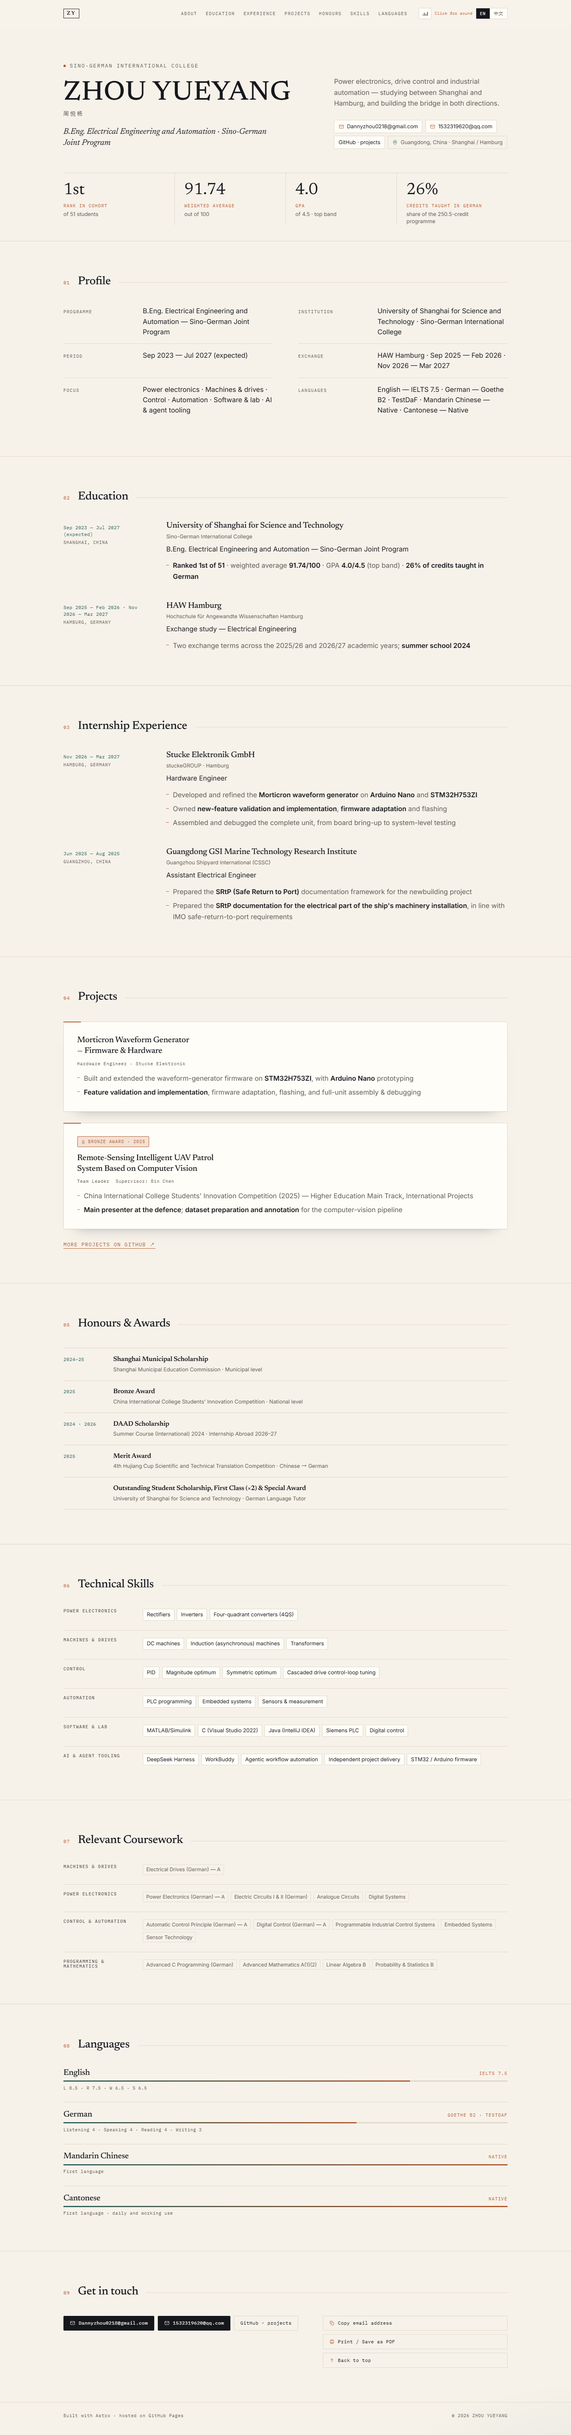
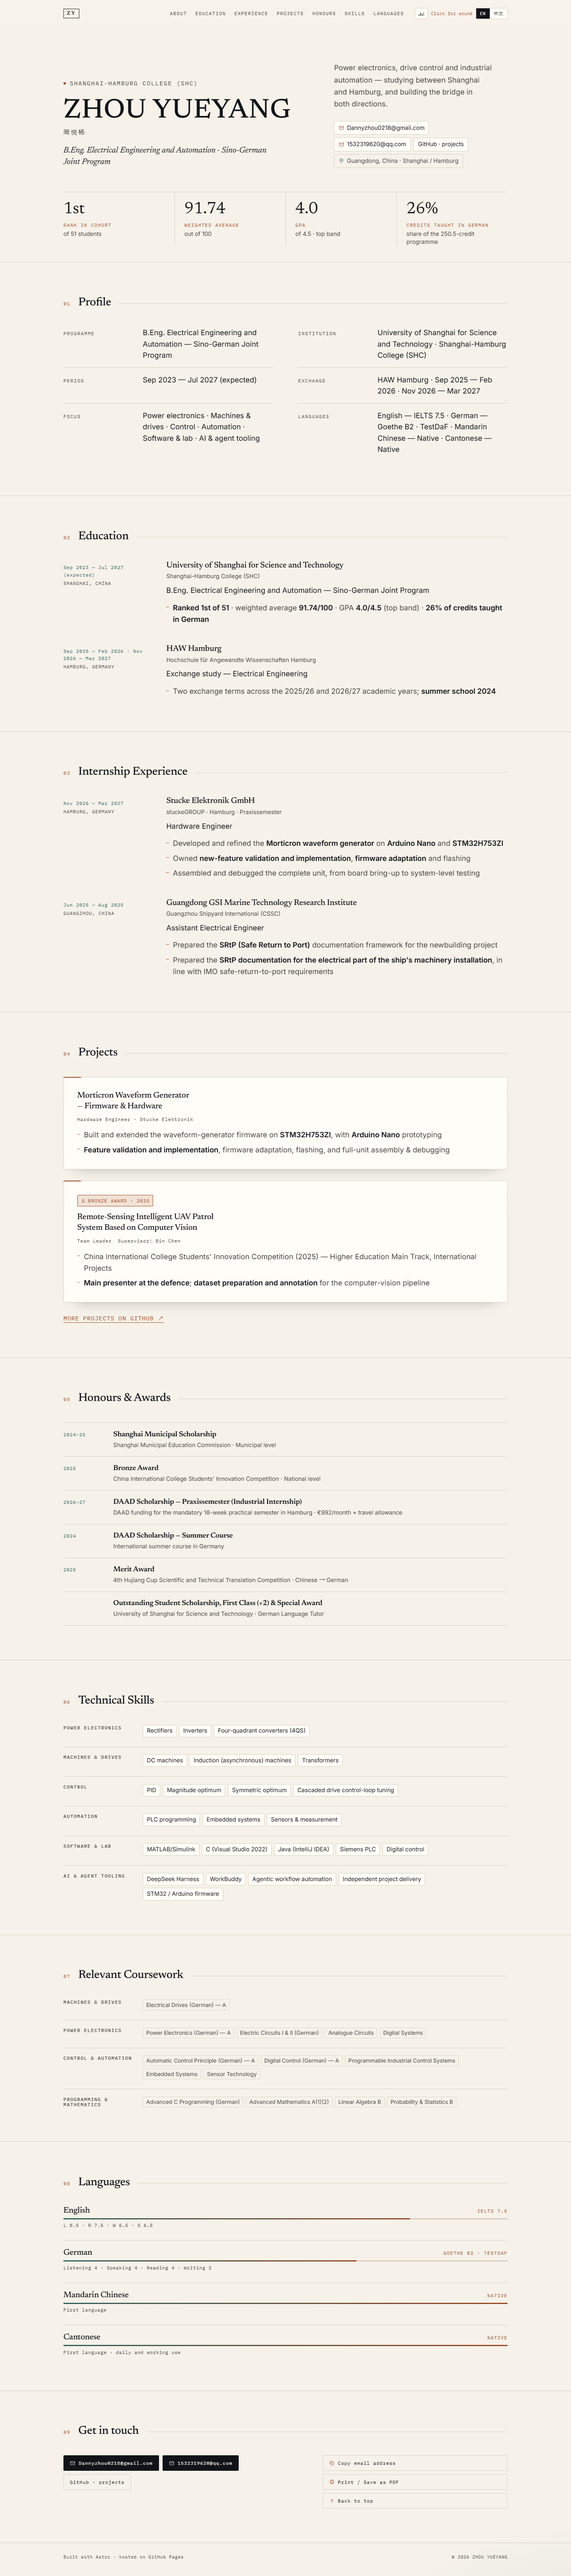
style: larger and darker body text for readability; awards: split DAAD Praxissemester and summer course; SHC naming

diff --git a/src/styles/global.css b/src/styles/global.css
@@ -7,10 +7,10 @@
   /* palette */
   --paper: #f6f2ea;
   --surface: #fffdf8;
-  --ink: #15171c;
-  --muted: #5b5852;
-  --hair: #ded6c6;
-  --copper: #b4552a;
+  --ink: #101318;
+  --muted: #3f3c37;
+  --hair: #d8cfbd;
+  --copper: #9c451f;
   --verd: #2c5f5a;
   --copper-wash: #f1e2d5;
   --verd-wash: #dde8e3;
@@ -22,8 +22,8 @@
     'PingFang SC', 'Hiragino Sans GB', 'Microsoft YaHei', 'Noto Sans SC', monospace;
   --font-cjk: 'PingFang SC', 'Hiragino Sans GB', 'Microsoft YaHei', 'Noto Sans SC', sans-serif;
 
-  --step--1: clamp(0.78rem, 0.76rem + 0.08vw, 0.84rem);
-  --step-0: clamp(0.97rem, 0.94rem + 0.16vw, 1.06rem);
+  --step--1: clamp(0.84rem, 0.82rem + 0.1vw, 0.92rem);
+  --step-0: clamp(1.02rem, 0.99rem + 0.22vw, 1.15rem);
   --step-1: clamp(1.08rem, 1.01rem + 0.34vw, 1.3rem);
   --step-2: clamp(1.36rem, 1.18rem + 0.78vw, 1.82rem);
   --step-3: clamp(1.7rem, 1.4rem + 1.35vw, 2.6rem);
@@ -68,7 +68,7 @@ body {
   background-repeat: no-repeat;
   font-family: var(--font-body);
   font-size: var(--step-0);
-  line-height: 1.62;
+  line-height: 1.65;
   font-feature-settings: 'kern' 1, 'liga' 1;
   -webkit-font-smoothing: antialiased;
   text-rendering: optimizeLegibility;
@@ -293,7 +293,7 @@ html[lang^='zh'] .hero-name[data-latin='true'] {
   display: block;
   padding-block: 0.4rem;
   font-family: var(--font-mono);
-  font-size: 0.71rem;
+  font-size: 0.74rem;
   letter-spacing: 0.12em;
   text-transform: uppercase;
   color: var(--muted);
@@ -416,7 +416,7 @@ html[lang^='zh'] .hero-name[data-latin='true'] {
 /* Only visible while the browser has blocked audible autoplay. */
 .music-hint {
   max-width: 9rem;
-  font-size: 0.62rem;
+  font-size: 0.68rem;
   letter-spacing: 0.04em;
   line-height: 1.3;
   color: var(--copper);
@@ -647,7 +647,7 @@ html[lang^='zh'] .stat-value {
   display: block;
   margin-top: 0.55rem;
   font-family: var(--font-mono);
-  font-size: 0.68rem;
+  font-size: 0.74rem;
   letter-spacing: 0.13em;
   text-transform: uppercase;
   color: var(--copper);
@@ -679,7 +679,7 @@ html[lang^='zh'] .stat-value {
 .sec-index {
   flex: none;
   font-family: var(--font-mono);
-  font-size: 0.74rem;
+  font-size: 0.78rem;
   letter-spacing: 0.1em;
   color: var(--copper);
 }
@@ -717,7 +717,7 @@ html[lang^='zh'] .stat-value {
 
 .fact-key {
   font-family: var(--font-mono);
-  font-size: 0.68rem;
+  font-size: 0.74rem;
   letter-spacing: 0.14em;
   text-transform: uppercase;
   color: var(--muted);
@@ -750,7 +750,7 @@ html[lang^='zh'] .stat-value {
 
 .entry-period {
   font-family: var(--font-mono);
-  font-size: 0.73rem;
+  font-size: 0.78rem;
   letter-spacing: 0.04em;
   line-height: 1.5;
   color: var(--verd);
@@ -758,7 +758,7 @@ html[lang^='zh'] .stat-value {
 
 .entry-place {
   font-family: var(--font-mono);
-  font-size: 0.71rem;
+  font-size: 0.76rem;
   letter-spacing: 0.06em;
   text-transform: uppercase;
   color: var(--muted);
@@ -855,7 +855,7 @@ html[lang^='zh'] .stat-value {
   border: 1px solid var(--copper);
   border-radius: 2px;
   font-family: var(--font-mono);
-  font-size: 0.67rem;
+  font-size: 0.72rem;
   letter-spacing: 0.11em;
   text-transform: uppercase;
   color: var(--copper);
@@ -880,7 +880,7 @@ html[lang^='zh'] .stat-value {
   gap: 0.25rem 1rem;
   margin-top: 0.55rem;
   font-family: var(--font-mono);
-  font-size: 0.71rem;
+  font-size: 0.76rem;
   letter-spacing: 0.05em;
   color: var(--muted);
 }
@@ -906,7 +906,7 @@ html[lang^='zh'] .stat-value {
 
 .award-year {
   font-family: var(--font-mono);
-  font-size: 0.73rem;
+  font-size: 0.78rem;
   letter-spacing: 0.04em;
   color: var(--verd);
   font-variant-numeric: tabular-nums;
@@ -950,7 +950,7 @@ html[lang^='zh'] .award-title {
 
 .tag-group-label {
   font-family: var(--font-mono);
-  font-size: 0.68rem;
+  font-size: 0.74rem;
   letter-spacing: 0.13em;
   text-transform: uppercase;
   color: var(--muted);
@@ -976,7 +976,7 @@ html[lang^='zh'] .award-title {
   padding: 0.2rem 0.48rem;
   border-color: color-mix(in srgb, var(--hair) 82%, transparent);
   background: transparent;
-  font-size: 0.8rem;
+  font-size: 0.86rem;
   color: var(--muted);
 }
 
@@ -1013,7 +1013,7 @@ html[lang^='zh'] .award-title {
 
 .lang-level {
   font-family: var(--font-mono);
-  font-size: 0.71rem;
+  font-size: 0.76rem;
   letter-spacing: 0.1em;
   text-transform: uppercase;
   color: var(--copper);
@@ -1045,7 +1045,7 @@ html[lang^='zh'] .award-title {
 
 .lang-detail {
   font-family: var(--font-mono);
-  font-size: 0.71rem;
+  font-size: 0.76rem;
   letter-spacing: 0.04em;
   line-height: 1.55;
   color: var(--muted);
@@ -1074,7 +1074,7 @@ html[lang^='zh'] .award-title {
   background: var(--ink);
   color: var(--paper);
   font-family: var(--font-mono);
-  font-size: 0.73rem;
+  font-size: 0.78rem;
   letter-spacing: 0.05em;
   line-height: 1.2;
   cursor: pointer;

diff --git a/src/data/resume.en.ts b/src/data/resume.en.ts
@@ -70,7 +70,7 @@ export const en: Resume = {
   education: [
     {
       org: 'University of Shanghai for Science and Technology',
-      orgSub: 'Sino-German International College',
+      orgSub: 'Shanghai-Hamburg College (SHC)',
       place: 'Shanghai, China',
       degree: 'B.Eng. Electrical Engineering and Automation — Sino-German Joint Program',
       period: 'Sep 2023 — Jul 2027 (expected)',
@@ -92,7 +92,7 @@ export const en: Resume = {
   experience: [
     {
       org: 'Stucke Elektronik GmbH',
-      orgSub: 'stuckeGROUP · Hamburg',
+      orgSub: 'stuckeGROUP · Hamburg · Praxissemester',
       place: 'Hamburg, Germany',
       role: 'Hardware Engineer',
       period: 'Nov 2026 — Mar 2027',
@@ -145,9 +145,14 @@ export const en: Resume = {
       year: '2025',
     },
     {
-      title: 'DAAD Scholarship',
-      detail: 'Summer Course (International) 2024 · Internship Abroad 2026–27',
-      year: '2024 · 2026',
+      title: 'DAAD Scholarship — Praxissemester (Industrial Internship)',
+      detail: 'DAAD funding for the mandatory 18-week practical semester in Hamburg · €992/month + travel allowance',
+      year: '2026–27',
+    },
+    {
+      title: 'DAAD Scholarship — Summer Course',
+      detail: 'International summer course in Germany',
+      year: '2024',
     },
     {
       title: 'Merit Award',

diff --git a/src/data/resume.zh.ts b/src/data/resume.zh.ts
@@ -70,7 +70,7 @@ export const zh: Resume = {
   education: [
     {
       org: '上海理工大学（USST）',
-      orgSub: '中德国际学院',
+      orgSub: '中德国际学院（SHC）',
       place: '上海，中国',
       degree: '电气工程及其自动化 工学学士 · 中德合作项目',
       period: '2023.09 — 2027.07（预计）',
@@ -92,7 +92,7 @@ export const zh: Resume = {
   experience: [
     {
       org: 'Stucke Elektronik GmbH',
-      orgSub: 'stuckeGROUP · 汉堡',
+      orgSub: 'stuckeGROUP · 汉堡 · 必修实习学期',
       place: '汉堡，德国',
       role: '硬件工程师',
       period: '2026.11 — 2027.03',
@@ -145,9 +145,14 @@ export const zh: Resume = {
       year: '2025',
     },
     {
-      title: 'DAAD 奖学金',
-      detail: '2024 年暑期课程（国际）· 2026–27 年海外实习',
-      year: '2024 · 2026',
+      title: 'DAAD 奖学金 — 海外实习学期（Praxissemester）',
+      detail: 'DAAD 资助汉堡必修实习学期（18 周）· 992 €/月 + 差旅补贴',
+      year: '2026–27',
+    },
+    {
+      title: 'DAAD 奖学金 — 暑期课程',
+      detail: '德国国际暑期课程',
+      year: '2024',
     },
     {
       title: '优秀奖',
